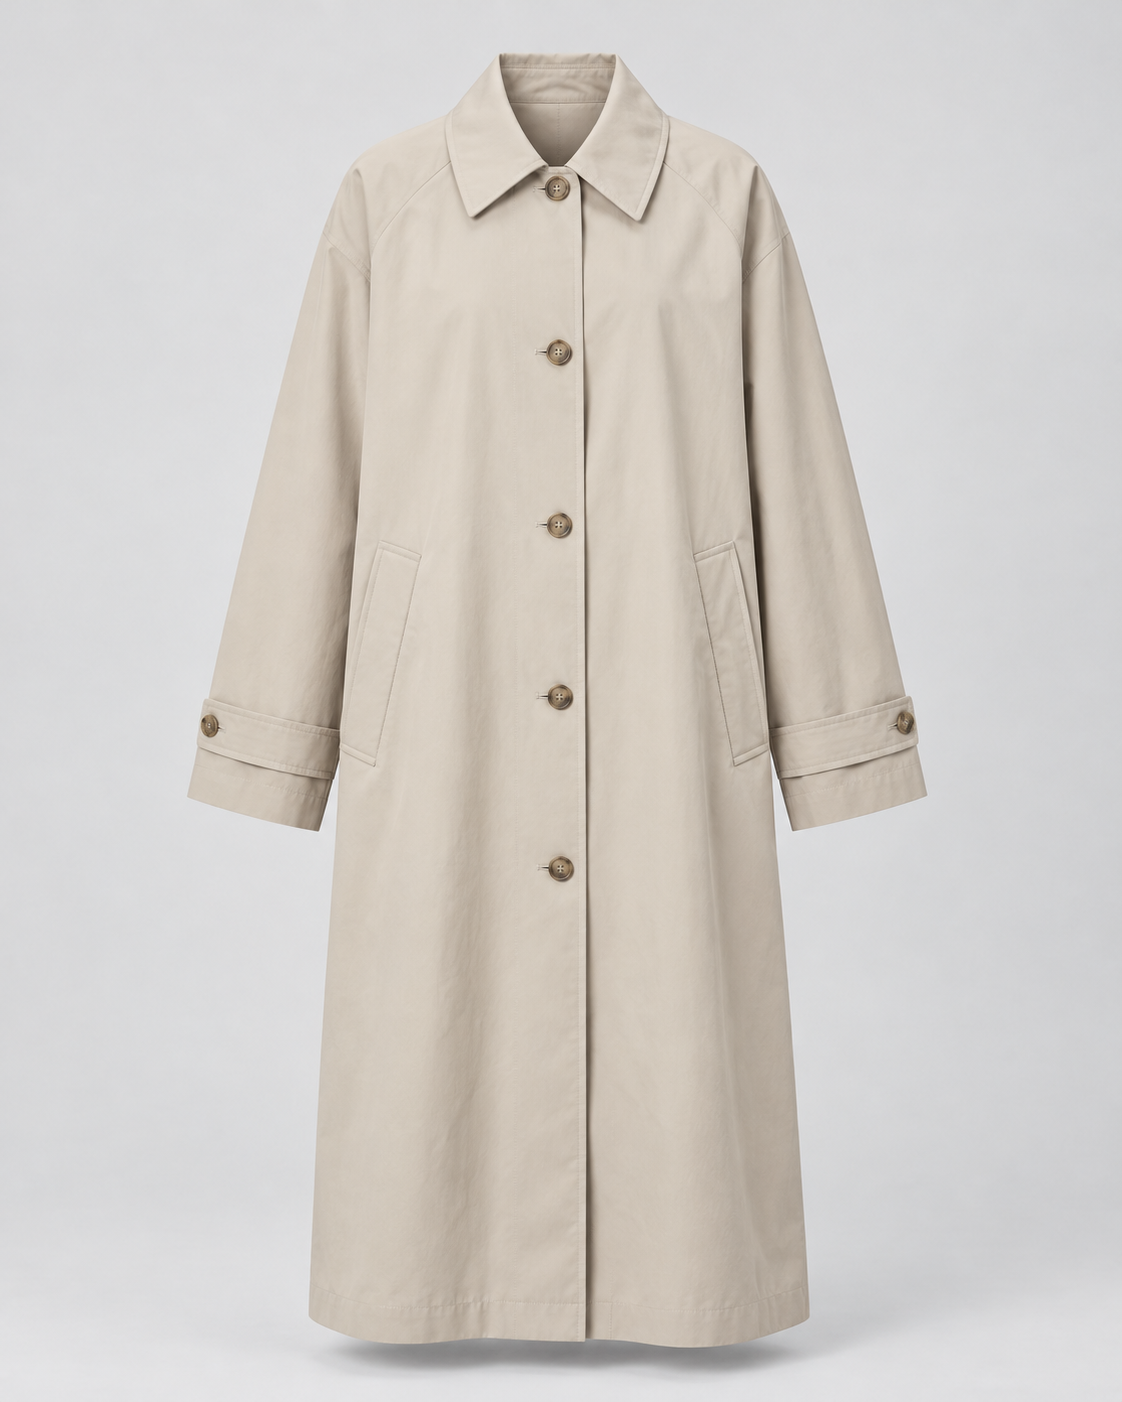
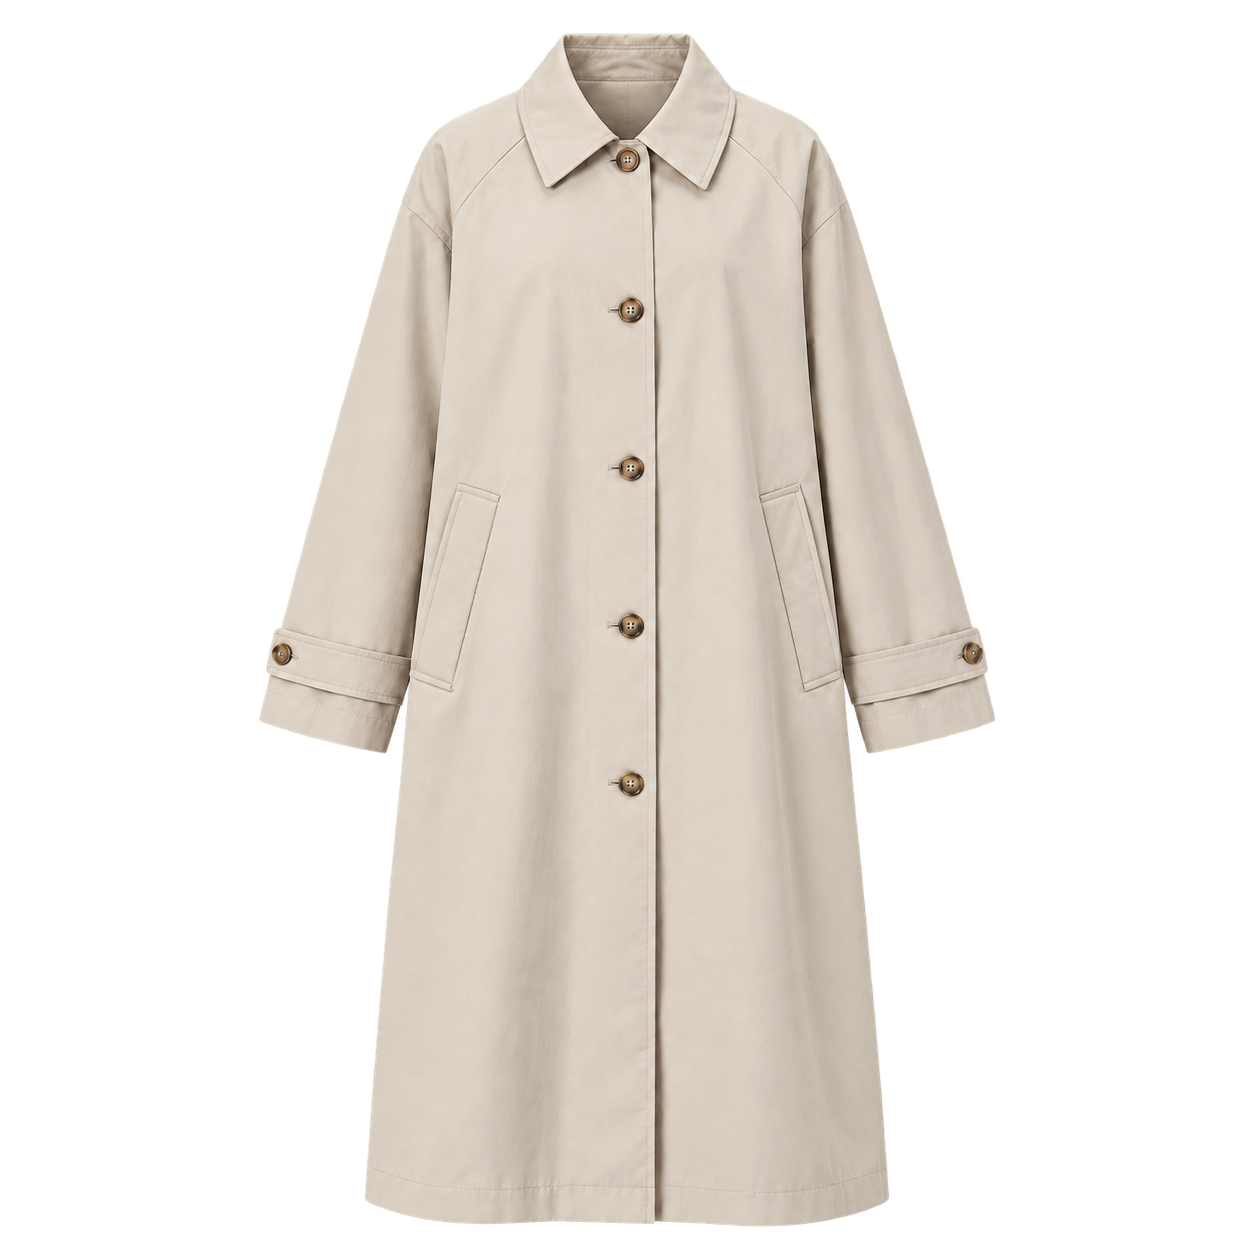
style: 상품 대표 이미지 및 카드 UI 개선

diff --git a/src/domains/products/components/ProductCard.tsx b/src/domains/products/components/ProductCard.tsx
@@ -51,7 +51,7 @@ export default function ProductCard({ product, showInfo }: ProductCardProps) {
              * overflow-hidden은 확대된 이미지가 영역 밖으로 나가지 않게 자릅니다.
              * bg-neutral-100은 이미지 영역의 연한 회색 배경입니다.
              */}
-            <div className="relative aspect-[4/5] overflow-hidden bg-neutral-100">
+            <div className="relative aspect-[4/5] overflow-hidden bg-white">
                 {/* 대표 주소가 있으면 이미지들을, 없으면 안내 문구를 표시하는 조건문입니다. */}
                 {imageUrl ? (
                     <>
@@ -68,6 +68,7 @@ export default function ProductCard({ product, showInfo }: ProductCardProps) {
                             src={imageUrl}
                             alt={product.name}
                             fill
+                            unoptimized
                             sizes="(max-width: 767px) 50vw, (max-width: 1023px) 33vw, (max-width: 1439px) 25vw, 320px"
                             className="object-contain transition-transform duration-300 motion-safe:group-hover:scale-105"
                         />
@@ -96,7 +97,7 @@ export default function ProductCard({ product, showInfo }: ProductCardProps) {
                 )}
                 {/* 신상품일 때만 NEW 배지를 이미지 왼쪽 위에 겹쳐 표시합니다. */}
                 {product.new && (
-                    <span className="absolute top-3 left-3 bg-white px-2 py-1 text-[10px] font-semibold tracking-wider">
+                    <span className="absolute top-3 left-3 bg-white px-2 py-1 text-[10px] font-semibold tracking-wider opacity-0 transition-opacity duration-300 group-hover:opacity-100">
                         NEW
                     </span>
                 )}
